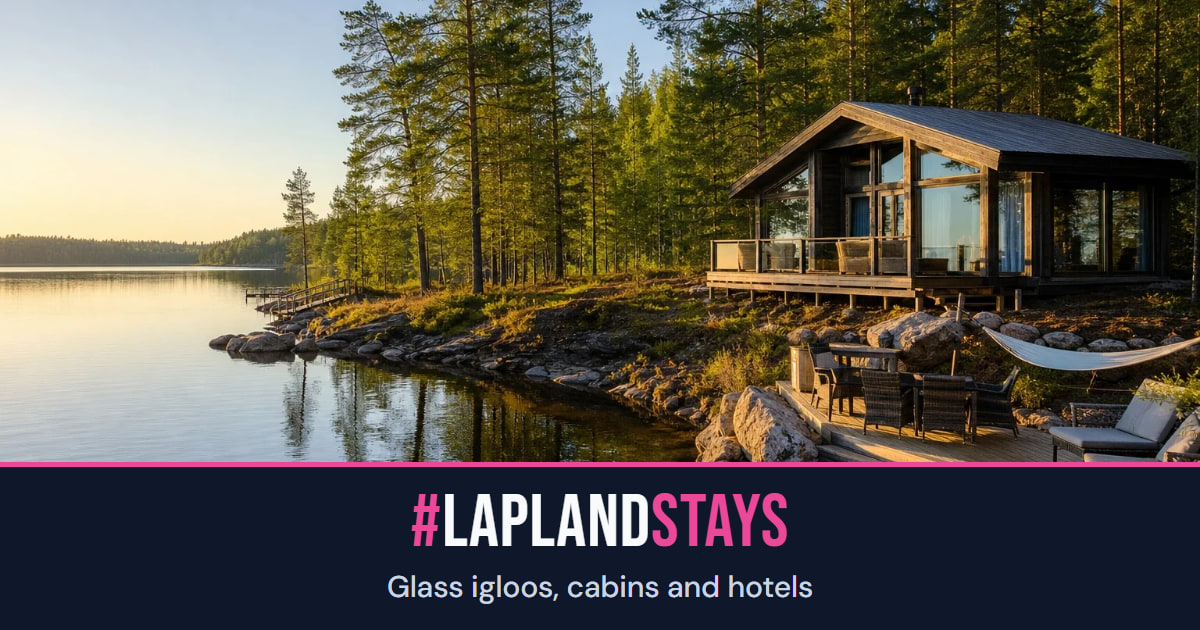
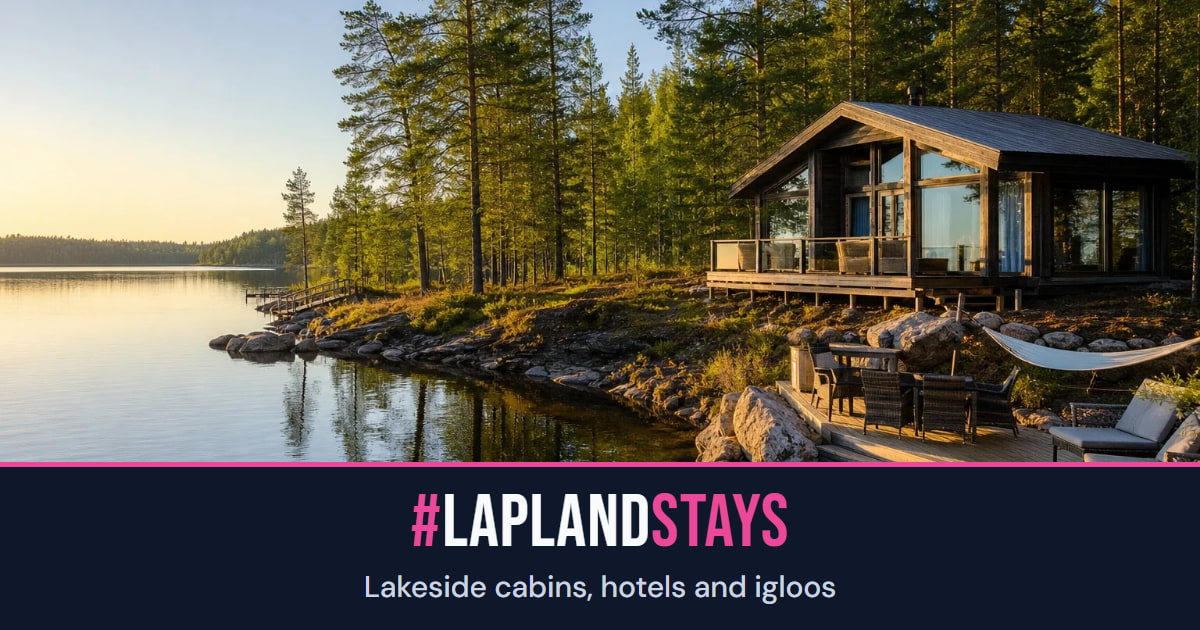
Jakokortti: kauden oma kuva JA kauden oma teksti
Vesa 21.9.2026: "eiko naihinkin pida olla saanto etta kesalla jaetaan
kesakuva ja teksti liittyy kesaan? nyt ouhut kesakuvassa aurorasta?"

Kortin kuva vaihtui kauden mukaan jo, teksti ei. Rekisterissa on nyt
taglineKesa ja taglineTalvi, ja kortit on tehty uudelleen molemmille
kausille. OG_VERSION nostettu, jotta uusi kortti nakyy jaossa heti eika
vasta kun some-palvelun valimuisti vanhenee.

Changed region(s): [[0.3083, 0.9048, 0.7092, 0.9651]]

diff --git a/index.html b/index.html
@@ -93,11 +93,11 @@
     <meta property="og:title" content="Lapland Accommodation: Glass Igloos & Cabins | LaplandStays" />
     <meta property="og:description" content="Where to stay in Lapland: glass igloos, aurora cabins and village hotels across Levi, Ylläs and Saariselkä. When they sell out and what is worth booking first." />
     <meta property="og:url" content="https://laplandstays.com/" />
-    <meta property="og:image" content="https://laplandstays.com/og.jpg?v=20260905" />
+    <meta property="og:image" content="https://laplandstays.com/og.jpg?v=20260921" />
     <meta name="twitter:image:alt" content="Warm-lit luxury cabin in snowy Finnish Lapland under aurora skies. #LAPLANDSTAYS" />
     <meta property="og:image:alt" content="Warm-lit luxury cabin in snowy Finnish Lapland under aurora skies. #LAPLANDSTAYS" />
     <meta property="og:image:type" content="image/jpeg" />
-    <meta property="og:image:secure_url" content="https://laplandstays.com/og.jpg?v=20260905" />
+    <meta property="og:image:secure_url" content="https://laplandstays.com/og.jpg?v=20260921" />
     <meta property="og:image:width" content="1200" />
     <meta property="og:image:height" content="630" />
     <meta property="og:locale" content="en_US" />
@@ -107,7 +107,7 @@
     <meta name="twitter:site" content="@laplandvibes" />
     <meta name="twitter:title" content="Lapland Accommodation: Glass Igloos & Cabins | LaplandStays" />
     <meta name="twitter:description" content="Where to stay in Lapland: glass igloos, northern lights cabins and hotels with verified nightly rates across Finnish Lapland." />
-    <meta name="twitter:image" content="https://laplandstays.com/og.jpg?v=20260905" />
+    <meta name="twitter:image" content="https://laplandstays.com/og.jpg?v=20260921" />
 
     <!-- Fonts are self-hosted from public/fonts (2026-08-16) — Google Fonts links
          removed with them. Both families were the network standard Bebas Neue +
